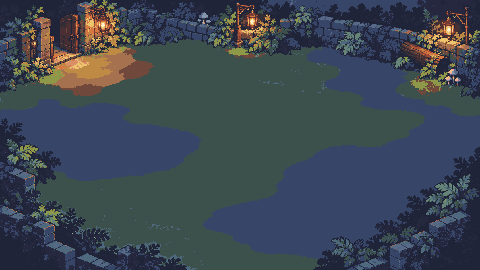
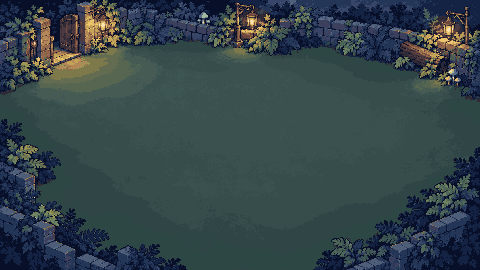
fix(art): unify garden ground and preserve subtle edge lighting

diff --git a/assets/pixel/build.py b/assets/pixel/build.py
@@ -7,6 +7,7 @@ export, one shared palette and binary alpha make the generated art game-ready.
 from pathlib import Path
 import hashlib
 import json
+import sys
 from PIL import Image, ImageDraw
 
 ROOT = Path(__file__).resolve().parent
@@ -18,6 +19,13 @@ bf8a43 edc46e f8e4b6 fff3d0 3c514c 668578 a1baa0 c3d1ad
 RGB = [tuple(bytes.fromhex(c)) for c in COLORS]
 PALETTE = Image.new("P", (1, 1))
 PALETTE.putpalette([v for c in RGB for v in c] + list(RGB[0]) * (256-len(RGB)))
+GARDEN_COLORS = """304646 364d4b 3a514f 3d5654 465b53 4c6156 566650 636b50
+080f28 142344 233657 374568 4e5d78 6b7885 2d4744 4e6759
+708462 9b9855 302a37 4d3940 70483c 93684c b38757 d2a06d
+edc46e f8e4b6 7e794b a79458 c4a456 3d405c 596a88 a1baa0""".split()
+GARDEN_PALETTE = Image.new("P", (1,1))
+garden_values = [v for c in GARDEN_COLORS for v in bytes.fromhex(c)]
+GARDEN_PALETTE.putpalette(garden_values + garden_values[:3] * (256-len(GARDEN_COLORS)))
 
 # (id, original crop x0 y0 x1 y1, final canvas width height, fitting method)
 SHEETS = {
@@ -113,9 +121,9 @@ def hard_alpha(im):
     return im
 
 
-def palette_export(im):
+def palette_export(im, palette=PALETTE):
     alpha = im.getchannel("A")
-    out = im.convert("RGB").quantize(palette=PALETTE, dither=Image.Dither.NONE).convert("RGBA")
+    out = im.convert("RGB").quantize(palette=palette, dither=Image.Dither.NONE).convert("RGBA")
     out.putalpha(alpha)
     # Transparent RGB must be zero as well: avoids colored fringes in consumers.
     empty = Image.new("RGBA", out.size)
@@ -143,6 +151,40 @@ def export_region(source, box, size, method):
 
 def sha(path):
     return hashlib.sha256(path.read_bytes()).hexdigest()
+
+
+def export_background(name):
+    is_garden = name == "mushroom-garden"
+    source_name = "mushroom-garden-v3" if is_garden else name
+    source = Image.open(ROOT/"source"/(source_name+".png")).convert("RGBA")
+    dimensions = (480,270) if is_garden else (384,256)
+    out = palette_export(source.resize(dimensions,Image.Resampling.NEAREST), GARDEN_PALETTE if is_garden else PALETTE)
+    path=ROOT/"backgrounds"/(name+".png"); out.save(path)
+    record={"file":str(path.relative_to(ROOT)),"size":list(dimensions),"source":"source/"+source_name+".png","sha256":sha(path),"purpose":"complete static environment; no collision implied"}
+    if is_garden:
+        record.update({"art_revision":3,"logical_size":[960,540],"palette":["#"+c for c in GARDEN_COLORS],"playfield":"continuous quiet moss-earth plane; edge-cast shadows and source-linked lamp pools"})
+    return record
+
+
+def garden_preview(manifest):
+    garden=Image.open(ROOT/"backgrounds/mushroom-garden.png").convert("RGBA")
+    for name,foot in [("meemee_cast_se",(160,165)),("sparkcap_windup",(260,160)),("moonheart_guard",(355,170))]:
+        record=manifest["sprites"][name]; im=Image.open(ROOT/record["file"]); p=record["pivot"]
+        garden.alpha_composite(im,(foot[0]-p[0],foot[1]-p[1]))
+    scaled=garden.resize((1440,810),Image.Resampling.NEAREST)
+    scaled.save(ROOT/"preview/garden-composite.png")
+    scaled.save(ROOT/"preview/garden-v3-concept.png")
+
+
+def update_garden_only():
+    manifest=json.loads((ROOT/"manifest.json").read_text())
+    manifest["backgrounds"]["mushroom-garden"]=export_background("mushroom-garden")
+    path=ROOT/"source/mushroom-garden-v3.png"
+    im=Image.open(path)
+    manifest["sources"][path.name]={"size":list(im.size),"mode":im.mode,"sha256":sha(path),"runtime":False}
+    (ROOT/"manifest.json").write_text(json.dumps(manifest,ensure_ascii=False,indent=2)+"\n")
+    garden_preview(manifest)
+    print("Updated mushroom-garden only; existing sprite/UI exports untouched.")
 
 
 def build():
@@ -215,14 +257,7 @@ def build():
             manifest["sprites"][name]=record
         sheet.save(ROOT/"atlases"/(group+".png"))
     for name in ["restaurant-interior","restaurant-lane","restaurant-shell","mushroom-garden"]:
-        source_name = "mushroom-garden-v2" if name == "mushroom-garden" else name
-        source=Image.open(ROOT/"source"/(source_name+".png")).convert("RGBA")
-        dimensions=(480,270) if name=="mushroom-garden" else (384,256)
-        out=palette_export(source.resize(dimensions,Image.Resampling.NEAREST))
-        path=ROOT/"backgrounds"/(name+".png"); out.save(path)
-        manifest["backgrounds"][name]={"file":str(path.relative_to(ROOT)),"size":list(dimensions),"source":"source/"+source_name+".png","sha256":sha(path),"purpose":"complete static environment; no collision implied"}
-        if name == "mushroom-garden":
-            manifest["backgrounds"][name].update({"art_revision":2,"logical_size":[960,540],"playfield":"large quiet low-contrast shapes; decoration at perimeter only"})
+        manifest["backgrounds"][name]=export_background(name)
     for path in sorted((ROOT/"source").glob("*.png")):
         im=Image.open(path)
         manifest["sources"][path.name]={"size":list(im.size),"mode":im.mode,"sha256":sha(path),"runtime":False}
@@ -269,12 +304,7 @@ def preview(manifest):
         p=record["pivot"]; foot=entry["foot"]
         modular.alpha_composite(im,(foot[0]-p[0],foot[1]-p[1]))
     modular.resize((1152,768),Image.Resampling.NEAREST).save(ROOT/"preview/restaurant-layered.png")
-    garden=Image.open(ROOT/"backgrounds/mushroom-garden.png").convert("RGBA")
-    for name,foot in [("meemee_cast_se",(160,165)),("sparkcap_windup",(260,160)),("moonheart_guard",(355,170))]:
-        record=manifest["sprites"][name]; im=Image.open(ROOT/record["file"]); p=record["pivot"]
-        garden.alpha_composite(im,(foot[0]-p[0],foot[1]-p[1]))
-    garden.resize((1440,810),Image.Resampling.NEAREST).save(ROOT/"preview/garden-composite.png")
-    garden.resize((1440,810),Image.Resampling.NEAREST).save(ROOT/"preview/garden-v2-concept.png")
+    garden_preview(manifest)
     sprites=list(manifest["sprites"].items())
     cw,ch,cols=288,280,4
     board=Image.new("RGB",(cw*cols,ch*((len(sprites)+cols-1)//cols)),"#c5d0ca")
@@ -303,4 +333,9 @@ def preview(manifest):
 
 
 if __name__=="__main__":
-    build()
+    if sys.argv[1:] == ["--garden-only"]:
+        update_garden_only()
+    elif not sys.argv[1:]:
+        build()
+    else:
+        raise SystemExit("Usage: build.py [--garden-only]")

diff --git a/assets/pixel/verify.py b/assets/pixel/verify.py
@@ -33,8 +33,9 @@ for kind in ("sprites","backgrounds"):
         im=Image.open(path)
         require(im.mode=="RGBA" and list(im.size)==rec["size"],f"Format/dimensions {name}")
         pixels={color for count,color in im.getcolors(maxcolors=im.width*im.height)}
+        asset_allowed={tuple(bytes.fromhex(c[1:])) for c in rec.get("palette",m["palette"])}
         require(all(p[3] in (0,255) for p in pixels),f"Soft alpha {name}")
-        require(all(p[:3] in allowed for p in pixels if p[3]),f"Palette drift {name}")
+        require(all(p[:3] in asset_allowed for p in pixels if p[3]),f"Palette drift {name}")
         require(all(p==(0,0,0,0) for p in pixels if not p[3]),f"Hidden RGB fringe {name}")
         require(bool(im.getbbox()),f"Empty asset {name}")
         if kind=="sprites":

diff --git a/assets/pixel/README.md b/assets/pixel/README.md
@@ -6,7 +6,7 @@
 
 固定三分之四斜俯视，人物可见正面，家具可见立面与台面；室内隐藏屋顶、全店总览。琥珀与旧木承载食物/经营区，靛蓝承载夜色和轮廓，黄铜承载有实际用途的魔法设备。月窗、羊角饰件、围裙与厨房材质维持咩咩身份。街巷与室内使用同一光向；魔法学校只作为远景，不扩大地图。
 
-原稿是高分辨率生成图，**不保证原稿符合严格像素网格**。运行时目录 `sprites/`、`atlases/`、`backgrounds/` 经确定性最近邻导出与统一 32 色映射，不使用抖动；每一像素为完整色块，透明度只有 0 或 255，透明像素 RGB 清零。`source/` 是未修改的生成来源，不供运行时加载。不要使用原稿缩放后冒充固定网格验收。
+原稿是高分辨率生成图，**不保证原稿符合严格像素网格**。运行时目录 `sprites/`、`atlases/`、`backgrounds/` 经确定性最近邻导出与固定色板映射，不使用抖动；默认共用32色，菇圃v3单独使用记录在背景条目 `palette` 中的32色以保留近似地面色阶。每一像素为完整色块，透明度只有0或255，透明RGB清零。`source/` 是未修改的生成来源，不供运行时加载。不要使用原稿缩放后冒充固定网格验收。
 
 ## 直接加载
 
@@ -32,7 +32,7 @@
 
 ## 第二轮：安静活动区与物件入口
 
-背景 ID/路径 `mushroom-garden` 不变，仍为 480×270，对应 960×540 逻辑边界。当前指向新绘来源 `source/mushroom-garden-v2.png`；中央采用连续的低对比地面形状，碎纹理集中在边缘。没有通过模糊或程序重画替代绘图。旧原稿 `source/mushroom-garden.png` 和原分支 `codex/a01-pixel-world` 的 `86b442d` 保留恢复点；没有把角色、怪物、预警、掉落或碰撞烘焙进背景。
+背景 ID/路径 `mushroom-garden` 不变，仍为 480×270，对应 960×540 逻辑边界。当前指向定向修正版 `source/mushroom-garden-v3.png`：中央连续苔土地面，阴影与墙/植物相连，门灯光有明确来源；去除v2蓝绿孤斑和橙色分区感，保持安静。v3单独固定32色记录于该背景 `palette`，不改变旧精灵色板或PNG。没有通过模糊或程序涂色替代绘图。旧原稿、v2原稿和原分支 `codex/a01-pixel-world` 的 `86b442d` 保留恢复点；没有把角色、怪物、预警、掉落或碰撞烘焙进背景。
 
 新增稳定 ID 共10件，旧60件精灵/图集/动画/aliases均保留：
 
@@ -48,13 +48,15 @@
 
 布局入口只是用途建议，不替P02实现交互。四个世界物件使用脚底pivot；纸面UI使用左上角pivot。新面板/按钮的九宫格和内容边距在 manifest，顺序均为 `[left,top,right,bottom]`；图标与透视世界物件不做九宫格拉伸。旧UI ID未自动重定向，新经营界面需明确选用这些简洁资产。
 
-`preview/garden-v2-concept.png` 使用实际已有角色与敌人做素材合成；`preview/world-ui-v2-contact.png` 检查新物件/符号。两者不证明运行时/UI已改好。真正全屏场景、灯下/暗处/边缘的预警与弹体对比度、前景遮挡、中文和输入焦点由P02/P03提供引擎证据。
+当前概念合成为 `preview/garden-v3-concept.png`（同时更新 `garden-composite.png`），使用实际已有角色与敌人；`garden-v2-concept.png` 仅保留上次评审恢复点。`preview/world-ui-v2-contact.png` 检查已冻结的10件物件/符号。这些不证明运行时/UI已改好。真正全屏场景、灯下/暗处/边缘的预警与弹体对比度、前景遮挡、中文和输入焦点由P02/P03提供引擎证据。
 
 ## 重建与检查
 
 需要 Python 3 与 Pillow（本次实际 Python 3.12.14 / Pillow 12.3.0），运行 `python3 assets/pixel/build.py`，再运行 `python3 assets/pixel/verify.py`。本机可用 bundled Python；不需要在线生成或 API key。构建只做已有生成原稿的裁切、最近邻缩放、固定色板导出、硬透明处理与图集打包，不生成替代美术。`source/`、`preview/` 带 `.gdignore`，不参与游戏资源导入。
 
 仅检查变更资产时可向 `verify.py` 传入 ID（无参数仍检查完整包），例如 `python3 assets/pixel/verify.py mushroom-garden ui_paper_panel`。第二轮只重验新背景与10个新增ID，以及其源图、图集和九宫格边距；未改变部分复用既有证据，不重复核心测试。
+
+背景定向更新使用 `python3 assets/pixel/build.py --garden-only`，只写菇圃PNG、对应manifest/新源图记录和菇圃预览，不重新导出任何精灵、UI或其他背景。`verify.py mushroom-garden` 按背景自身的固定色板检查，不用默认精灵色板错误地合并近似地面色阶。
 
 Godot CLI 额外使用临时空项目和临时脚本检查了实际 PNG 解码、ImageTexture 与 AtlasTexture 尺寸；加载路径来自 manifest，脚本使用 `Image.load_from_file`、`ImageTexture.create_from_image` 和各 `region`。一次性加载脚本与日志保留在 `/private/tmp/moonlantern-a01-godot/verify_load.gd` 和 `/private/tmp/moonlantern-a01-png-load.log`，不作为游戏运行代码放入素材包。检查不等于真实游戏接入、窗口体验或目标设备验收；沙箱启动时用户目录/系统证书诊断不影响已返回成功的 PNG/图集检查，但不能据此宣称无诊断启动。
 

diff --git a/assets/pixel/SOURCES.md b/assets/pixel/SOURCES.md
@@ -20,6 +20,7 @@
 | mushroom-garden-v2.png | c65abb90-6d5c-4e87-8a8a-a6d942ced96c | 根据用户否定密集地面纹理的反馈，内置 image_gen 重画中央连续色块与边缘框景；旧 mushroom-garden.png 原稿保留，运行时 ID 不变 |
 | world-ui-v2.png | 3e01c544-6914-44a3-b739-f9794b6a14f8 | 新绘菜谱册、订单纸、账本、小菜单板；纸面无文字，独立透明世界物件 |
 | plain-ui-v2.png | 4a0b3af1-b9f1-4c64-9cdc-56ec05f78d23 | 新绘朴素短纸浮层、普通/聚焦按钮与金币/日程/暂停符号；减少金边/蓝填充 |
+| mushroom-garden-v3.png | a28f2c6e-4aa2-4cb8-936b-5e68e9a092f3 | 仅以无人物的v2背景为编辑目标，定向统一地面、把阴影接回边缘并修正门灯光斑；运行时使用manifest明确记录的背景专用32色，旧精灵色板不变 |
 
 原始工具输出仍保留在生成工具默认目录。被饭店方向取代的旧奇物店/商品稿不作为游戏交付素材。`source/` 文件保持原样；`manifest.json` 记录其实际尺寸、模式和 SHA-256，以及每个运行时精灵的准确来源裁切与导出处理。
 
